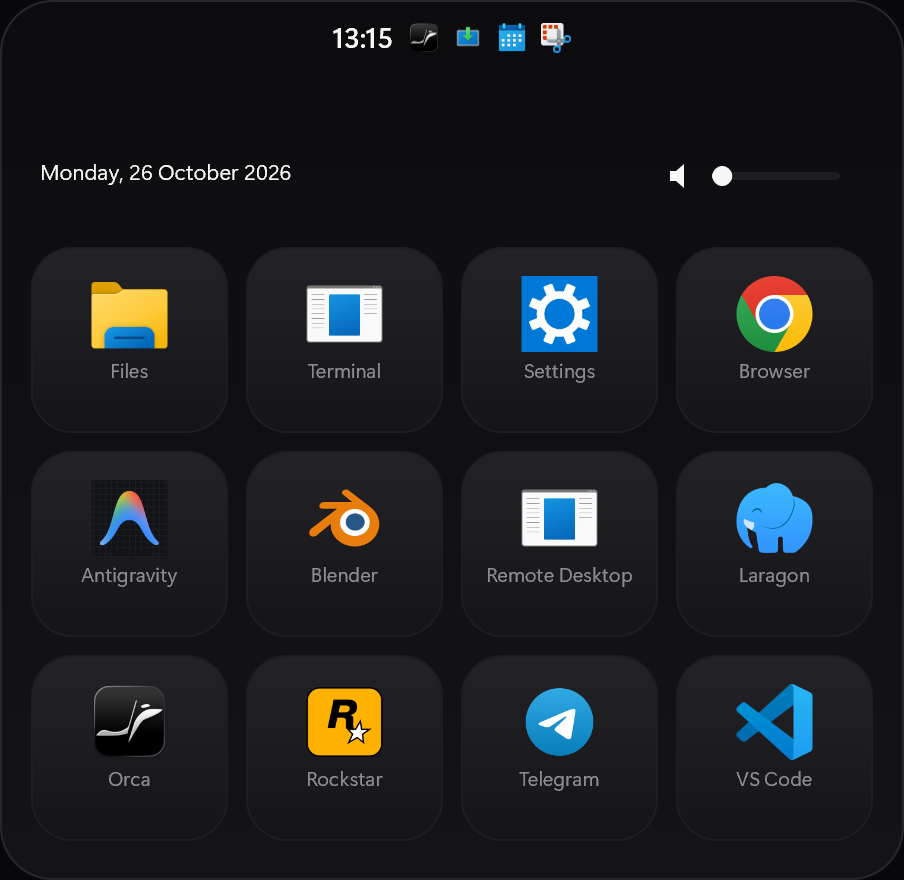
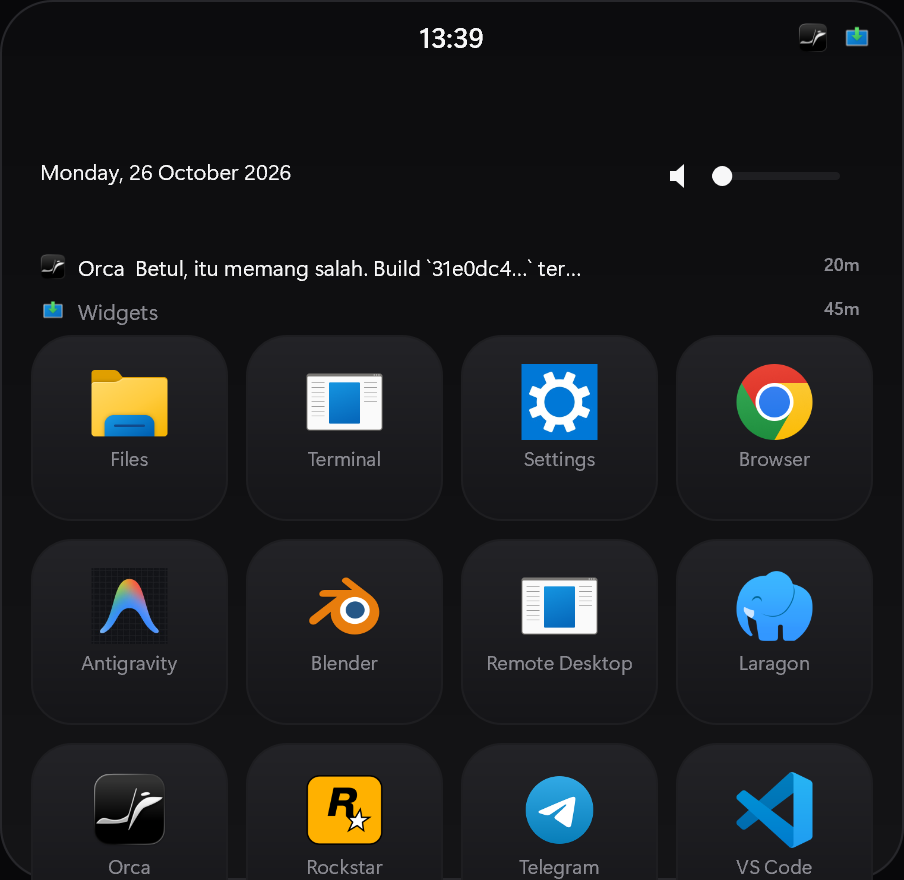
feat: show notification contents in the panel
The notch has room for icons only, so the text was invisible. Hovering
the notch already opens the panel, so that is where the contents go: up
to three rows with app icon, app name, toast text and relative age.

Text comes from the toast payload, which is an XML binding document.
Every visible string sits in a <text> element, sometimes nested inside
<run> or <span>, so tags are stripped rather than parsed structurally -
the schema differs per app. Netflix and Widgets send images with no text,
so those rows fall back to name plus time instead of showing a blank.

One bug found while wiring this up: drawMediaCard still returned kIdleH,
so the launcher grid was drawn on top of the new rows and only the
reserved empty space stayed visible. It now returns the height actually
used.

diff --git a/src/scene.cpp b/src/scene.cpp
@@ -80,6 +80,8 @@ constexpr float kPanelTop = 38.0f;   // notch strip height
 constexpr float kGridTop = 18.0f;    // space under the notch
 constexpr float kFooterH = 16.0f;  // bottom breathing room only; no caption row
 constexpr float kIdleH = 68.0f;
+constexpr float kNotifRowH = 22.0f;
+constexpr int kMaxNotifRows = 3;
 constexpr float kMediaH = 148.0f;
 constexpr float kSeekHitH = 22.0f;
 // Must match drawVolumeBlock's glyph + gap + slider + gap + percentage maths.
@@ -87,7 +89,12 @@ constexpr float kVolumeBlockW = 14.0f + 8.0f + 64.0f;
 constexpr float kCardPad = 16.0f;
 }  // namespace
 
-float Scene::panelHeightFor(size_t appCount, bool withMedia) {
+int Scene::notificationRowCount() const {
+  if (!ambient_) return 0;
+  return std::min<int>(static_cast<int>(ambient_->badges.size()), kMaxNotifRows);
+}
+
+float Scene::panelHeightFor(size_t appCount, bool withMedia, int notifRows) {
   const int cols = appCount <= 4 ? static_cast<int>(appCount) : 4;
   const int count = static_cast<int>(appCount);
   const int rows = cols > 0 ? (count + cols - 1) / cols : 0;
@@ -97,7 +104,9 @@ float Scene::panelHeightFor(size_t appCount, bool withMedia) {
                                : 0.0f;
   // The strip above the grid is the media card when something is playing and a
   // bare volume slider otherwise, so the grid never jumps between the two.
-  const float strip = withMedia ? kMediaH : kIdleH;
+  const int notifLines = withMedia ? 0 : std::clamp(notifRows, 0, kMaxNotifRows);
+  const float strip =
+      withMedia ? kMediaH : (kIdleH + static_cast<float>(notifLines) * kNotifRowH);
   return kPanelTop + kGridTop + strip + grid + kFooterH;
 }
 
@@ -599,12 +608,71 @@ float Scene::drawMediaCard(ID2D1RenderTarget* rt, float x, float y, float w,
     drawVolumeBlock(rt, d2d_, tiny_, volumeRight, cy, volume_, muted_, volumeAvailable_,
                     &volumeRect_);
 
+    // Notification list: the notch only has room for icons, so the text lives
+    // here. Hovering the notch is the existing "look closer" gesture, so this
+    // needs no new interaction.
+    if (ambient_) {
+      const int rows =
+          std::min<int>(static_cast<int>(ambient_->badges.size()), kMaxNotifRows);
+      float rowY = y + kIdleH;
+
+      for (int i = 0; i < rows; ++i) {
+        const AppBadge& badge = ambient_->badges[static_cast<size_t>(i)];
+
+        // Icon
+        const float iconSize = 13.0f;
+        if (badge.icon) {
+          rt->DrawBitmap(badge.icon,
+                         D2D1::RectF(x + 4.0f, rowY + 3.0f, x + 4.0f + iconSize,
+                                     rowY + 3.0f + iconSize),
+                         1.0f, D2D1_BITMAP_INTERPOLATION_MODE_LINEAR);
+        } else {
+          rt->FillEllipse(
+              D2D1::Ellipse(D2D1::Point2F(x + 4.0f + iconSize * 0.5f, rowY + 9.5f), 3.0f,
+                            3.0f),
+              accentB);
+        }
+
+        // Relative time, right-aligned so the text column has a fixed end.
+        wchar_t when[16]{};
+        if (badge.minutesAgo <= 0) {
+          wcscpy_s(when, L"now");
+        } else if (badge.minutesAgo < 60) {
+          swprintf(when, 16, L"%dm", badge.minutesAgo);
+        } else {
+          swprintf(when, 16, L"%dh", badge.minutesAgo / 60);
+        }
+        textAt(rt, tiny_, when,
+               D2D1::RectF(x + w - 44.0f, rowY + 2.0f, x + w - 6.0f, rowY + 18.0f), mutedB,
+               DWRITE_TEXT_ALIGNMENT_TRAILING);
+
+        // App name, then the message. Falls back to the body alone when the
+        // payload carried no title.
+        const std::wstring label = elide(badge.app, 12);
+        std::wstring line = label;
+        const std::wstring message = !badge.body.empty() ? badge.body : badge.title;
+        if (!message.empty()) line += L"  " + elide(message, 46);
+
+        textAt(rt, small_, line.c_str(),
+               D2D1::RectF(x + 4.0f + iconSize + 6.0f, rowY + 2.0f, x + w - 50.0f,
+                           rowY + 18.0f),
+               message.empty() ? mutedB : textB);
+
+        rowY += kNotifRowH;
+      }
+    }
+
     if (accentB) accentB->Release();
     if (trackB) trackB->Release();
     if (mutedB) mutedB->Release();
     if (textB) textB->Release();
     if (tileB) tileB->Release();
-    return kIdleH;
+
+    // Must report the height actually used, or the grid is drawn on top of the
+    // notification rows and only the empty reserved space remains visible.
+    const int shown =
+        ambient_ ? std::min<int>(static_cast<int>(ambient_->badges.size()), kMaxNotifRows) : 0;
+    return kIdleH + static_cast<float>(shown) * kNotifRowH;
   }
 
   const D2D1_RECT_F card = D2D1::RectF(x, y, x + w, y + kMediaH - 8.0f);

diff --git a/src/notifs.cpp b/src/notifs.cpp
@@ -3,6 +3,8 @@
 #include <shlobj.h>
 
 #include <algorithm>
+#include <cstring>
+#include <vector>
 #include <cstdint>
 
 #include "sqlite3.h"
@@ -37,6 +39,59 @@ std::wstring databasePath() {
 // AUMIDs look like "5319275A.WhatsAppDesktop_cv1g1gvanyjgm!App" or, for unpackaged
 // apps, a plain name such as "com.stablyai.orca". The friendly label drops the
 // publisher hash and the "!EntryPoint" tail.
+// Toast payloads are XML binding documents. Every visible string sits in a
+// <text> element, optionally wrapped in runs/spans, so tags are stripped after
+// extraction rather than parsed structurally - the schema varies per app.
+std::vector<std::wstring> textsFromPayload(const std::string& xml) {
+  std::vector<std::wstring> out;
+
+  size_t pos = 0;
+  while (out.size() < 4) {
+    const size_t open = xml.find("<text", pos);
+    if (open == std::string::npos) break;
+    const size_t gt = xml.find('>', open);
+    if (gt == std::string::npos) break;
+
+    const size_t close = xml.find("</text>", gt);
+    if (close == std::string::npos) break;
+
+    std::string raw = xml.substr(gt + 1, close - gt - 1);
+
+    // Strip any nested markup (<run>, <span>) and decode the few entities that
+    // actually show up in notification text.
+    std::string plain;
+    plain.reserve(raw.size());
+    bool inTag = false;
+    for (char c : raw) {
+      if (c == '<') {
+        inTag = true;
+      } else if (c == '>') {
+        inTag = false;
+      } else if (!inTag) {
+        plain.push_back(c);
+      }
+    }
+
+    struct Entity {
+      const char* from;
+      const char* to;
+    };
+    static const Entity kEntities[] = {
+        {"&amp;", "&"}, {"&lt;", "<"}, {"&gt;", ">"}, {"&quot;", "\""}, {"&#39;", "'"}};
+    for (const auto& e : kEntities) {
+      size_t at = 0;
+      while ((at = plain.find(e.from, at)) != std::string::npos) {
+        plain.replace(at, strlen(e.from), e.to);
+        at += strlen(e.to);
+      }
+    }
+
+    if (!plain.empty()) out.push_back(widen(plain.c_str()));
+    pos = close + 7;
+  }
+  return out;
+}
+
 std::wstring friendlyLabel(const std::wstring& aumid) {
   std::wstring base = aumid;
   const size_t bang = base.find(L'!');
@@ -133,8 +188,13 @@ void NotifSource::poll() {
   const uint64_t cutoff =
       nowFiletime() - static_cast<uint64_t>(minutes) * 60ull * 10000000ull;
 
+  // Payload is only needed for the newest row per app, so it is fetched with a
+  // correlated subquery rather than aggregated.
   static const char* kSql =
-      "SELECT h.PrimaryId AS aumid, COUNT(*) AS c, MAX(n.ArrivalTime) AS last "
+      "SELECT h.PrimaryId AS aumid, COUNT(*) AS c, MAX(n.ArrivalTime) AS last, "
+      "  (SELECT n2.Payload FROM Notification n2 "
+      "     WHERE n2.HandlerId = h.RecordId AND n2.ArrivalTime >= ?1 "
+      "     ORDER BY n2.ArrivalTime DESC LIMIT 1) AS payload "
       "FROM Notification n JOIN NotificationHandler h ON h.RecordId = n.HandlerId "
       "WHERE n.ArrivalTime >= ?1 "
       "GROUP BY h.PrimaryId ORDER BY last DESC LIMIT 12";
@@ -160,6 +220,21 @@ void NotifSource::poll() {
     app.count = sqlite3_column_int(stmt, 1);
     app.lastArrival = static_cast<uint64_t>(sqlite3_column_int64(stmt, 2));
     app.label = friendlyLabel(app.aumid);
+
+    const unsigned char* blob =
+        static_cast<const unsigned char*>(sqlite3_column_blob(stmt, 3));
+    const int blobLen = sqlite3_column_bytes(stmt, 3);
+    if (blob && blobLen > 0) {
+      const std::string xml(reinterpret_cast<const char*>(blob),
+                            static_cast<size_t>(blobLen));
+      const auto texts = textsFromPayload(xml);
+      if (texts.size() >= 2) {
+        app.title = texts[0];
+        app.body = texts[1];
+      } else if (texts.size() == 1) {
+        app.title = texts[0];
+      }
+    }
     apps_.push_back(std::move(app));
   }
 

diff --git a/src/main.cpp b/src/main.cpp
@@ -129,7 +129,7 @@ float targetHeight() {
   if (g_mode == PanelMode::Compact) return layout::kNotchH;
   const size_t apps = g_launcher ? g_launcher->apps().size() : 0;
   const bool withMedia = g_media && g_media->now().hasSession;
-  return Scene::panelHeightFor(apps, withMedia);
+  return Scene::panelHeightFor(apps, withMedia, g_scene ? g_scene->notificationRowCount() : 0);
 }
 
 void discardRenderTarget() {
@@ -661,7 +661,8 @@ bool savePng(const wchar_t* path, const Snapshot& snap, PanelMode mode, float sc
   const size_t apps = g_launcher ? g_launcher->apps().size() : 0;
   const float lh =
       mode == PanelMode::Compact ? layout::kNotchH
-                                 : Scene::panelHeightFor(apps, g_media && g_media->now().hasSession);
+                                 : Scene::panelHeightFor(apps, g_media && g_media->now().hasSession,
+                                                         g_scene->notificationRowCount());
 
   const UINT width = static_cast<UINT>(lw * scale);
   const UINT height = static_cast<UINT>(lh * scale);

diff --git a/src/ambient.cpp b/src/ambient.cpp
@@ -346,6 +346,22 @@ void AmbientSource::poll() {
       AppBadge badge;
       badge.app = labelForAumid(app.aumid);
       badge.aumid = app.aumid;
+      badge.title = app.title;
+      badge.body = app.body;
+
+      // Relative age for the panel list. ArrivalTime is FILETIME in UTC, the same
+      // base as GetSystemTimePreciseAsFileTime, so a plain subtraction is valid.
+      if (app.lastArrival > 0) {
+        FILETIME now{};
+        GetSystemTimePreciseAsFileTime(&now);
+        ULARGE_INTEGER value{};
+        value.LowPart = now.dwLowDateTime;
+        value.HighPart = now.dwHighDateTime;
+        if (value.QuadPart > app.lastArrival) {
+          const uint64_t delta = value.QuadPart - app.lastArrival;
+          badge.minutesAgo = static_cast<int>(delta / (60ull * 10000000ull));
+        }
+      }
 
       IWICBitmapSource* icon = iconFor(L"shell:" + app.aumid);
       if (!icon) continue;  // nothing to draw; a dot would be noise

diff --git a/src/notifs.h b/src/notifs.h
@@ -22,9 +22,15 @@
 
 struct NotifApp {
   std::wstring aumid;
-  std::wstring label;      // friendly name when known, otherwise trimmed AUMID
-  int count = 0;           // notifications inside the window
+  std::wstring label;  // friendly name when known, otherwise trimmed AUMID
+  int count = 0;       // notifications inside the window
   uint64_t lastArrival = 0;  // FILETIME, 100 ns since 1601
+
+  // Text carried by the toast payload, when the app supplies any. Plenty of
+  // apps send images only (Netflix, Widgets), so both may be empty - the row
+  // then falls back to the app name and a relative time.
+  std::wstring title;
+  std::wstring body;
 };
 
 class NotifSource {

diff --git a/src/scene.h b/src/scene.h
@@ -28,7 +28,10 @@ class Scene {
  public:
   // Height that exactly fits the launcher grid (and the now-playing card when
   // something is playing), so the panel never shows a pool of empty space.
-  static float panelHeightFor(size_t appCount, bool withMedia);
+  static float panelHeightFor(size_t appCount, bool withMedia, int notifRows = 0);
+
+  // Rows the panel will actually show, for height maths before drawing.
+  int notificationRowCount() const;
 
   bool init(IDWriteFactory* dwrite, ID2D1Factory* d2d, Launcher* launcher);
   void draw(ID2D1RenderTarget* rt, const Snapshot& snap, PanelMode mode, float width,

diff --git a/src/ambient.h b/src/ambient.h
@@ -23,6 +23,12 @@ struct AppBadge {
   std::wstring aumid;  // icon source for packaged apps
   int count = 0;       // 0 means icon only
 
+  // Text from the toast payload, when the app supplied any. Empty for apps that
+  // send images only; the panel row then shows just the app name and time.
+  std::wstring title;
+  std::wstring body;
+  int minutesAgo = -1;
+
   IWICBitmapSource* wic = nullptr;  // icon, DPI independent
   ID2D1Bitmap* icon = nullptr;      // per render target
   ID2D1RenderTarget* owner = nullptr;

diff --git a/README.md b/README.md
@@ -28,9 +28,12 @@ Nothing else - no charts, no telemetry dashboard, no account.
   on the right. The clock is not repeated there - the notch above already shows it.
 - **Battery**: percentage plus a glyph with a bolt while charging. Hidden on a
   machine with no battery, because `BatteryFlag & 128` says so.
-- **Notification icons live in the notch, not the panel.** The notch is the only
-  thing on screen while collapsed or while the panel is closed, so that is where
-  a glance has to land. The expanded panel shows date, battery and volume only.
+- **Notification icons live in the notch.** The notch is the only thing on screen
+  while collapsed, so that is where a glance has to land.
+- **Notification contents live in the panel.** Hovering the notch - the gesture
+  that already opens the panel - reveals up to three rows: app icon, app name,
+  the toast text, and how long ago it arrived. Apps that send images only show as
+  name plus time.
 - **No caption row**: the panel used to spell out "click to open / double-click to
   hide" under the last row. The tiles read as buttons on their own, so the line is
   gone and the panel ends just below the grid.
@@ -88,6 +91,7 @@ leaves a half-empty row.
 | Notch widened to 268 dip | Four 15 px icons plus gaps need the room; at 236 the group overlapped the clock. |
 | Icons expire after 60 minutes, no dismissal gesture | Every mouse gesture on the notch is already taken: movement expands the panel, right-click hides the island, middle-click mutes, and the left-drag area belongs to the volume and seek sliders. A click target on the 40 px pill would also fire *after* the panel had already opened. Time-based expiry needs no gesture, cannot be triggered by accident, and matches what an ambient indicator should be - a hint about the recent past, not a queue to manage. |
 | Badges in the notch, not the panel | Measured: the panel is invisible while collapsed, which is most of the time. Putting the icons next to the clock makes them readable at a glance; the panel keeps the date, battery and volume. |
+| Notification text parsed from the toast payload | Toasts are XML binding documents; every visible string sits in a `<text>` element, sometimes wrapped in `<run>`/`<span>`. Tags are stripped rather than parsed structurally because the schema differs per app. Netflix and Widgets send images with no text at all, so those rows fall back to name and age. |
 | Notification count is not the unread count | The store counts toast *arrivals*, which is history: Orca showed 10 arrivals but zero unread. Only "has something recent" is taken from it. The number drawn next to a logo comes from the app's own title, where it means actual unread. Zero counts are not drawn at all - a row of "0"s was the first thing the screenshot showed. |
 | Vendored SQLite, `SQLITE_THREADSAFE=0` | No system SQLite on Windows, and the panel is single-threaded, so the smaller build is the correct one. Compiled once into `build/sqlite3.o` and reused. |
 | Ambient icons rebuilt per render target | Same pattern as the launcher: WIC sources are kept, D2D bitmaps are recreated when the target changes. The snapshot target and the window target are different objects, so sharing one bitmap would be a use-after-free. |
